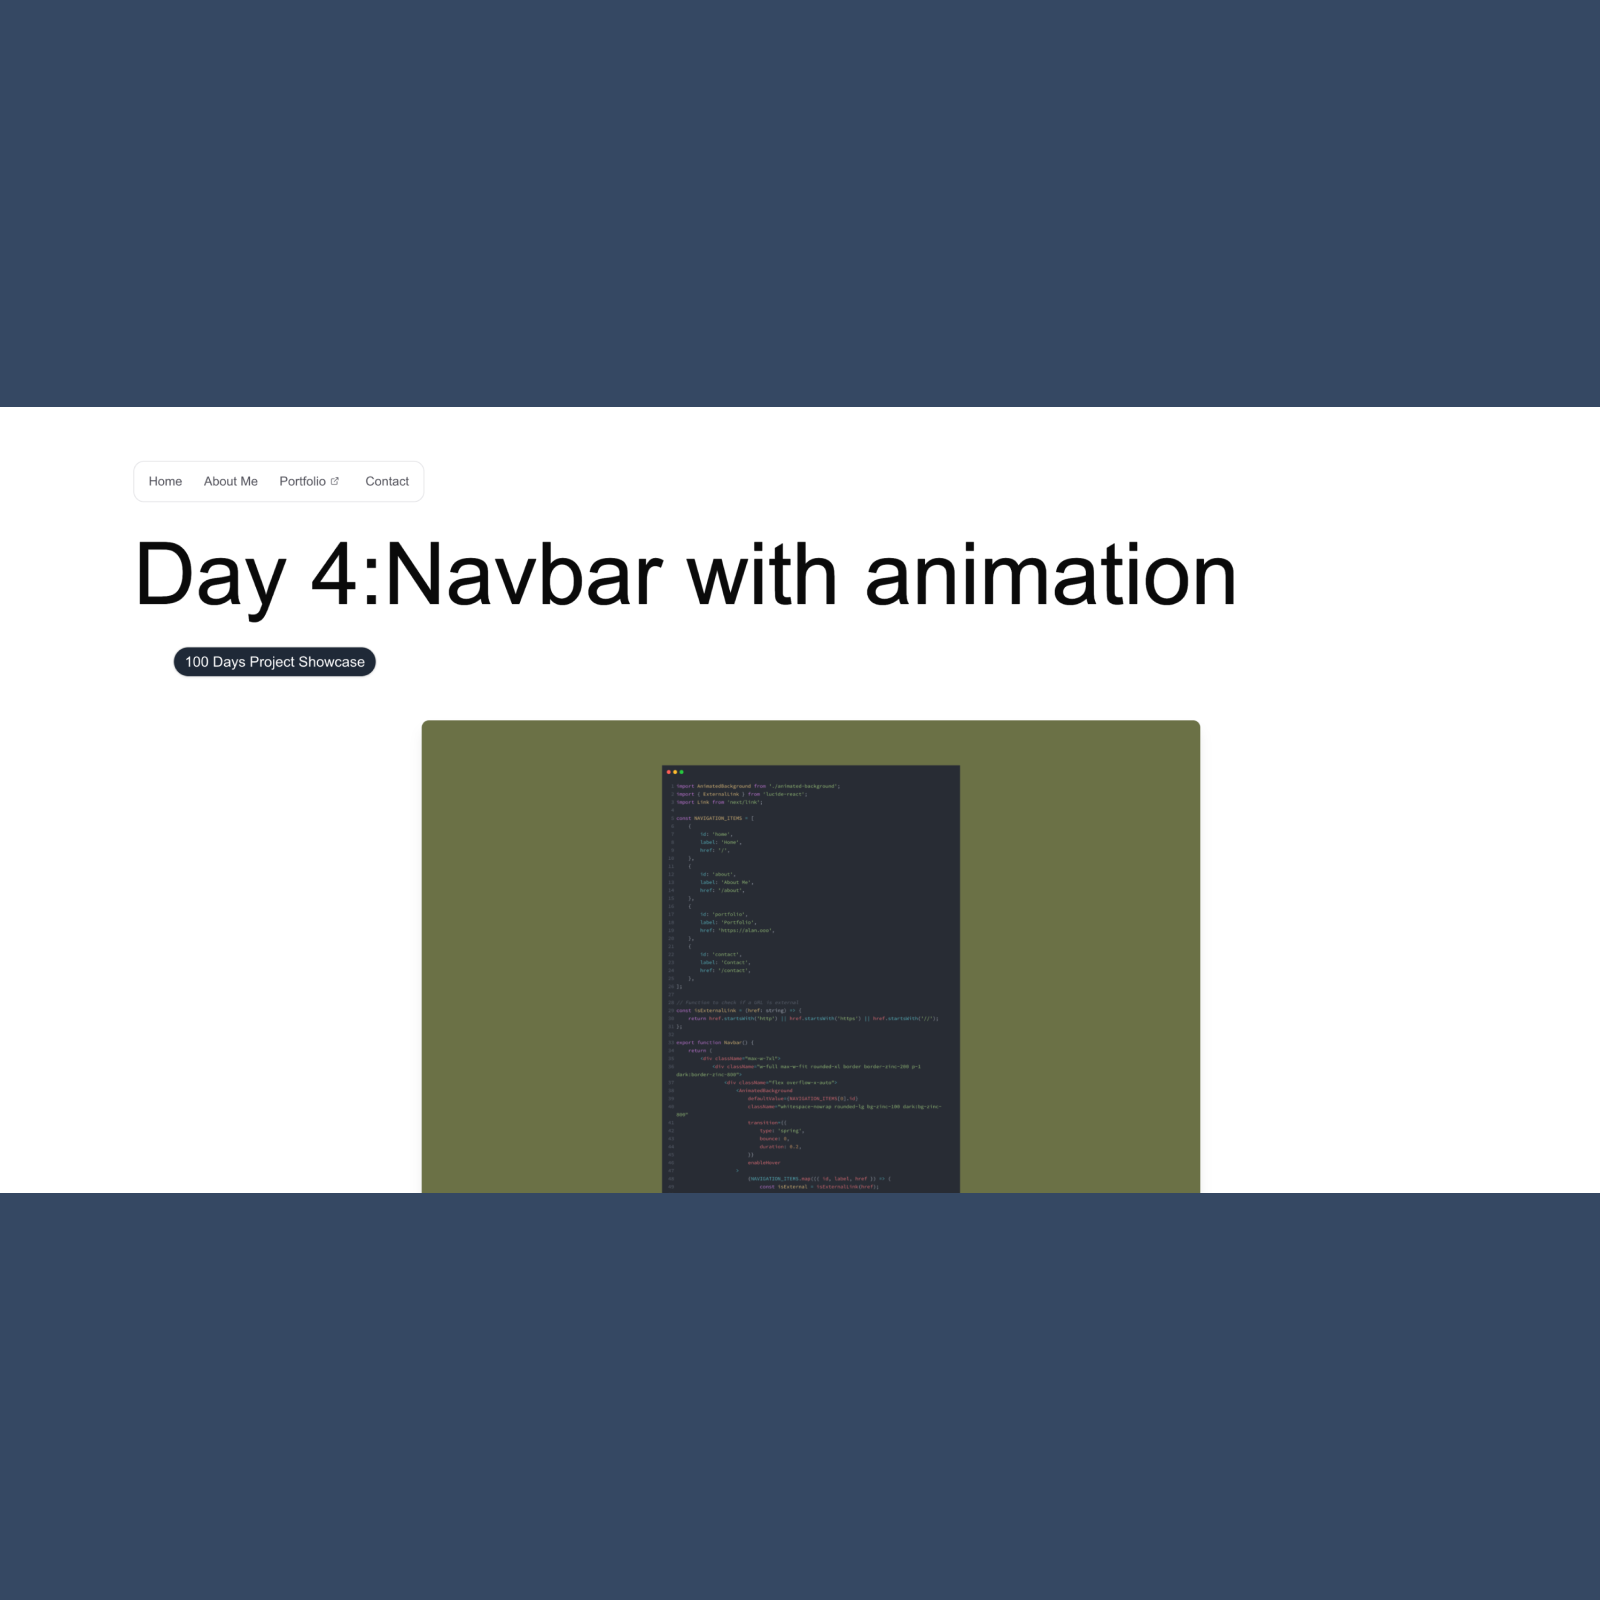
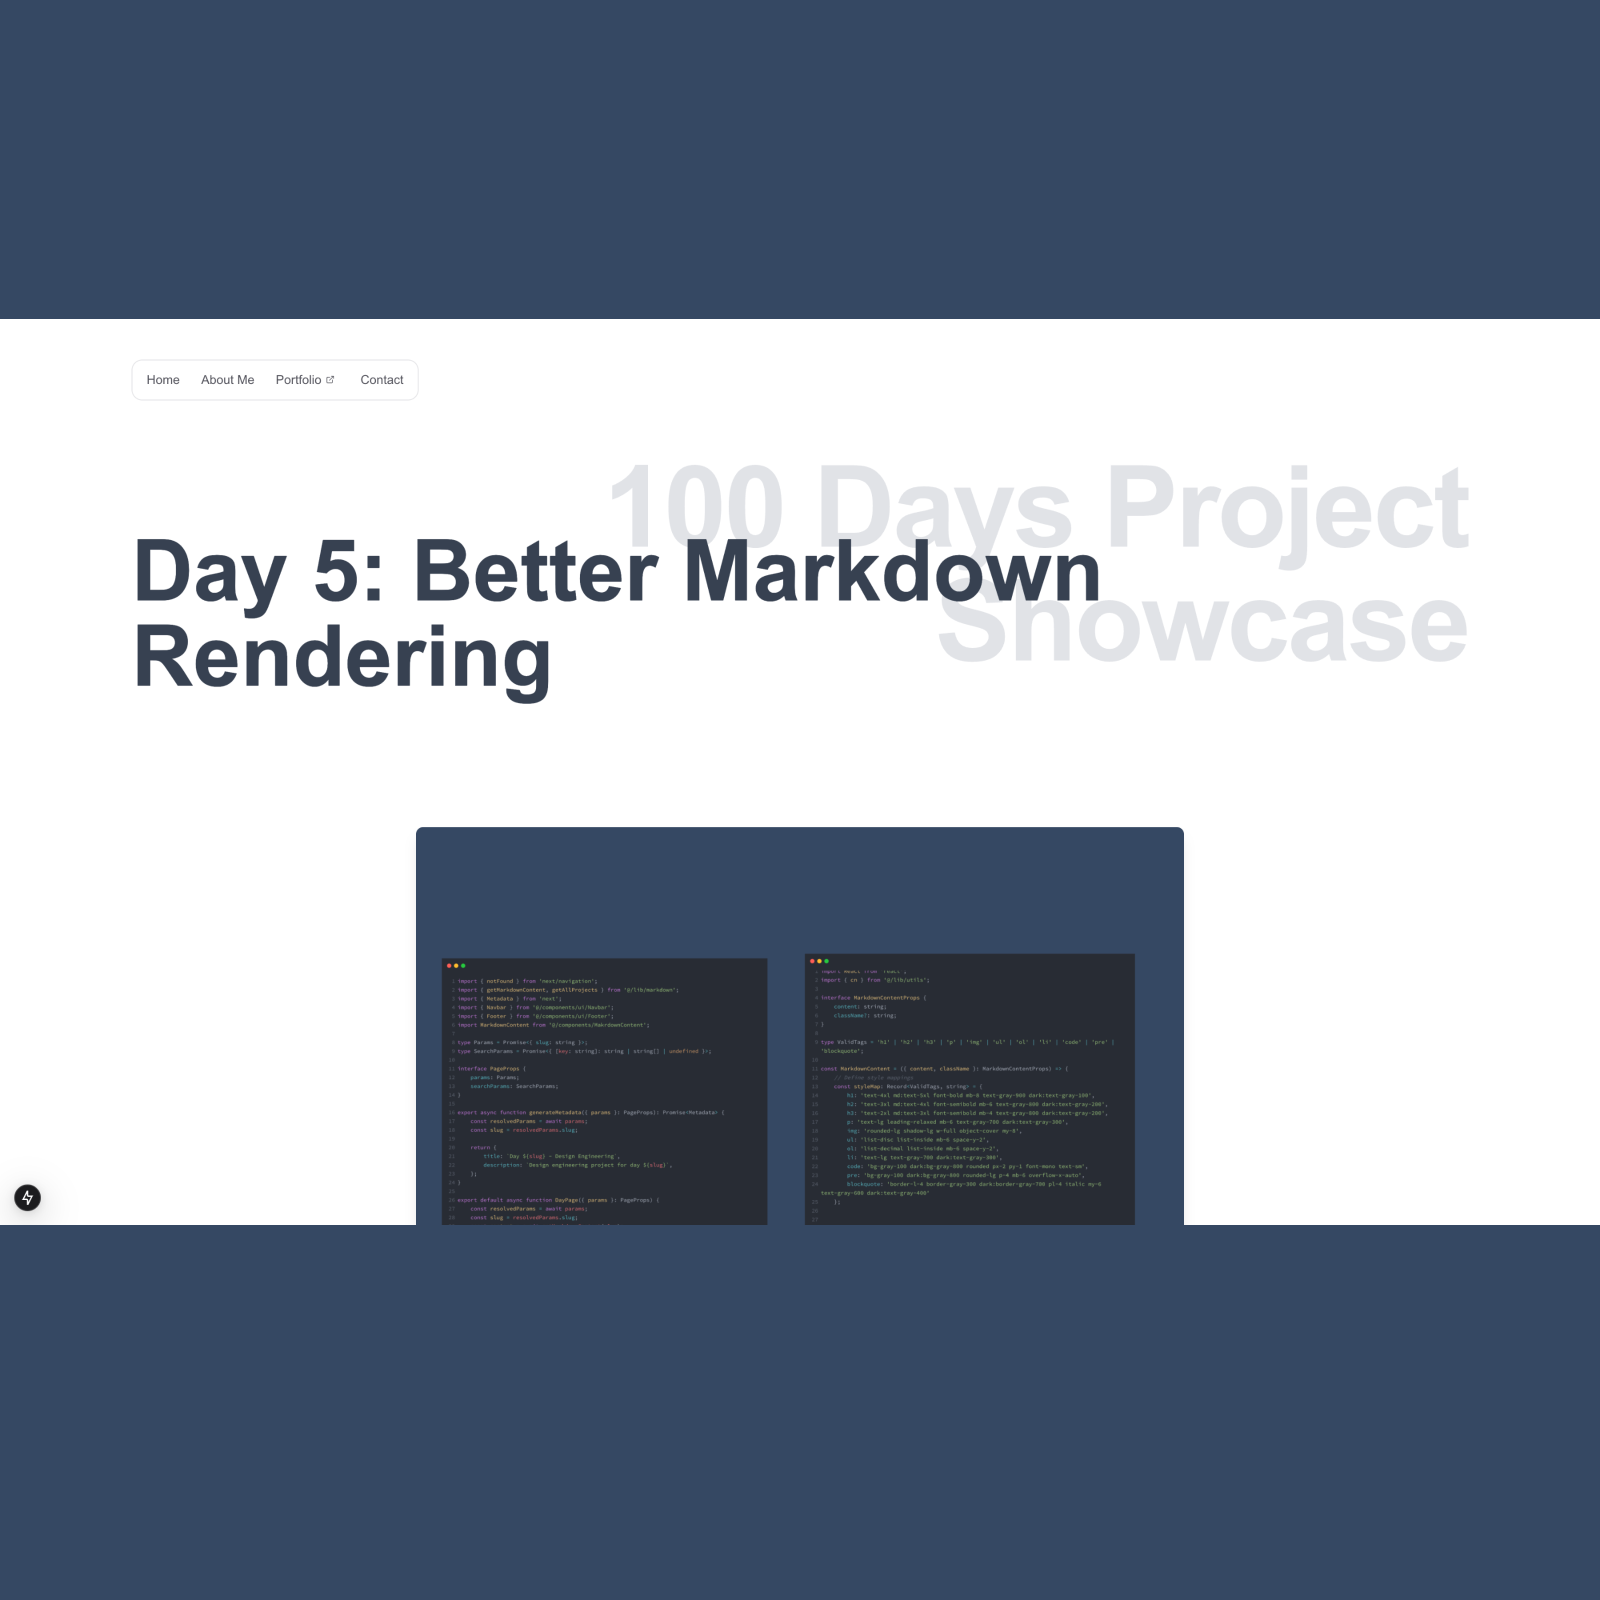
update styles and apply color

Changed region(s): [[0.0, 0.1875, 1.0, 0.7812]]

diff --git a/src/app/days/[slug]/page.tsx b/src/app/days/[slug]/page.tsx
@@ -16,7 +16,6 @@ interface PageProps {
 export async function generateMetadata({ params }: PageProps): Promise<Metadata> {
     const resolvedParams = await params;
     const slug = resolvedParams.slug;
-
     return {
         title: `Day ${slug} - Design Engineering`,
         description: `Design engineering project for day ${slug}`,
@@ -36,17 +35,28 @@ export default async function DayPage({ params }: PageProps) {
     return (
         <div className="min-h-screen flex flex-col">
             <main className="flex-1 container mx-auto px-4 py-8 sm:py-16">
-                <div className="space-y-6 sm:space-y-8 mb-12">
+                <div className="relative">
                     <Navbar />
-                    <h1 className="text-3xl md:text-8xl text-left">
-                        Day {slug}:{project?.title}
-                    </h1>
-                    <p className={`w-fit md:ml-8 px-3 py-1  text-base bg-gray-800 text-white border shadow-sm rounded-full`}>{project?.project}</p>
+                    {/* Background project name */}
+                    <div className="absolute left-0 w-full overflow-hidden select-none pointer-events-none">
+                        <div
+                            className="md:text-[8rem] text-right my-14 text-[3rem] font-bold opacity-15 text-gray-600 tracking-tight leading-none"
+                            style={{ color: project?.color }}
+                        >
+                            {project?.project}
+                        </div>
+                    </div>
+                    {/* Foreground title */}
+                    <div className="relative md:my-36 my-20">
+                        <h1 className="text-3xl md:text-8xl font-bold text-left text-gray-700 bg-blend-multiply">
+                            Day {slug}: {project?.title}
+                        </h1>
+                    </div>
                 </div>
-                <article className="max-w-4xl mx-auto px-4">
+                <article className="max-w-4xl mx-auto px-4 mt-16">
                     <MarkdownContent
                         content={content}
-                        className="prose-headings:scroll-mt-20" // Adds padding for anchor links
+                        className="prose-headings:scroll-mt-20"
                     />
                 </article>
             </main>

diff --git a/src/content/day-2.md b/src/content/day-2.md
@@ -4,7 +4,7 @@ description: "Brief description of the project and the engineering problem solve
 project: '100 Days Project Showcase'
 image: "/assets/day-2/2.png"
 day: 2
-color: #6F4671
+color: '#6F4671'
 ---
 
 ![Screenshot of Day 2 Progress](/assets/day-2/1.png)

diff --git a/src/content/day-4.md b/src/content/day-4.md
@@ -4,7 +4,7 @@ description: 'Brief description of the project and the engineering problem solve
 project: '100 Days Project Showcase'
 image: '/assets/day-4/2.png'
 day: 4
-color: #354863
+color: '#6B7146'
 ---
 
 

diff --git a/src/content/day-5.md b/src/content/day-5.md
@@ -4,7 +4,7 @@ description: 'Brief description of the project and the engineering problem solve
 project: '100 Days Project Showcase'
 image: '/assets/day-5/2.png'
 day: 5
-color: #354863
+color: '#354863'
 ---
 
 

diff --git a/src/content/day-1.md b/src/content/day-1.md
@@ -4,7 +4,7 @@ project: '100 Days Project Showcase'
 description: ''
 image: '/assets/day-1/2.png'
 day: 1
-color: #4F7A69
+color: '#4F7A69'
 ---
 
 ![Screenshot of Day 1 Progress](/assets/day-1/1.png)
